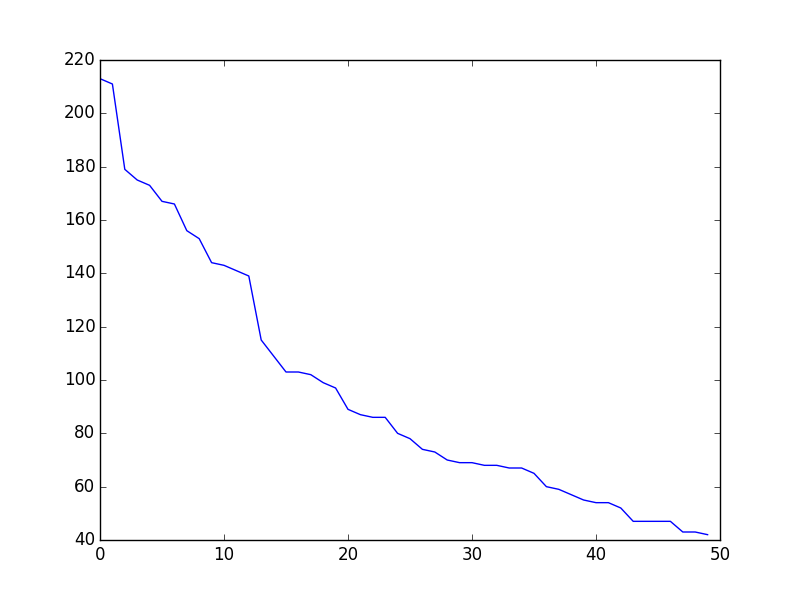
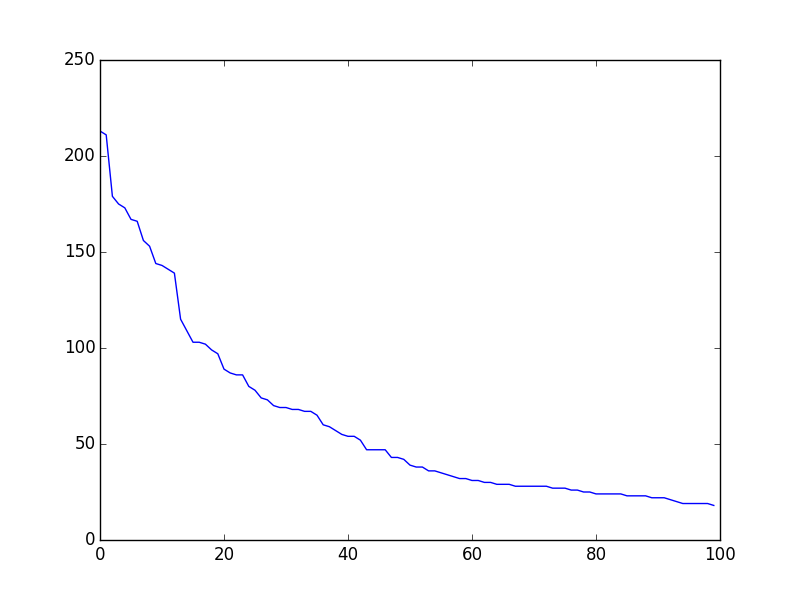
expand plot range

diff --git a/README.md b/README.md
@@ -67,6 +67,56 @@ Most common vim config out of 289 vimrc's
 47. set noerrorbells, 14.88%
 48. echon, 14.88%
 49. let mapleader =, 14.53%
+50. set list, 13.49%
+51. endfor, 13.15%
+52. echo, 13.15%
+53. let rules += [, 12.46%
+54. set softtabstop=2, 12.46%
+55. colorscheme desert, 12.11%
+56. endf, 11.76%
+57. set cindent, 11.42%
+58. set cmdheight=2, 11.07%
+59. set undofile, 11.07%
+60. set ai, 10.73%
+61. autocmd BufReadPost *, 10.73%
+62. set scrolloff=3, 10.38%
+63. set shiftround, 10.38%
+64. set backspace=2, 10.03%
+65. endwhile, 10.03%
+66. set novisualbell, 10.03%
+67. try, 9.69%
+68. set history=1000, 9.69%
+69. set autochdir, 9.69%
+70. set lazyredraw, 9.69%
+71. endtry, 9.69%
+72. set visualbell, 9.69%
+73. set foldmethod=indent, 9.34%
+74. let mapleader=, 9.34%
+75. set title, 9.34%
+76. set magic, 9.00%
+77. set foldenable, 9.00%
+78. set clipboard=unnamed, 8.65%
+79. set termencoding=utf-8, 8.65%
+80. let g:neocomplcache_enable_at_startup = 1, 8.30%
+81. set nowb, 8.30%
+82. set ttyfast, 8.30%
+83. set linebreak, 8.30%
+84. colorscheme solarized, 8.30%
+85. set backup, 7.96%
+86. set wildmode=list:longest, 7.96%
+87. set lbr, 7.96%
+88. catch, 7.96%
+89. set t_vb=, 7.61%
+90. set encoding=utf8, 7.61%
+91. set si, 7.61%
+92. set guioptions-=m, 7.27%
+93. break, 6.92%
+94. map <C-h> <C-W>h, 6.57%
+95. endfun, 6.57%
+96. map <C-k> <C-W>k, 6.57%
+97. map <C-l> <C-W>l, 6.57%
+98. map <C-j> <C-W>j, 6.57%
+99. set enc=utf-8, 6.23%
 
 #Plot
 ![plot](fig.png)
